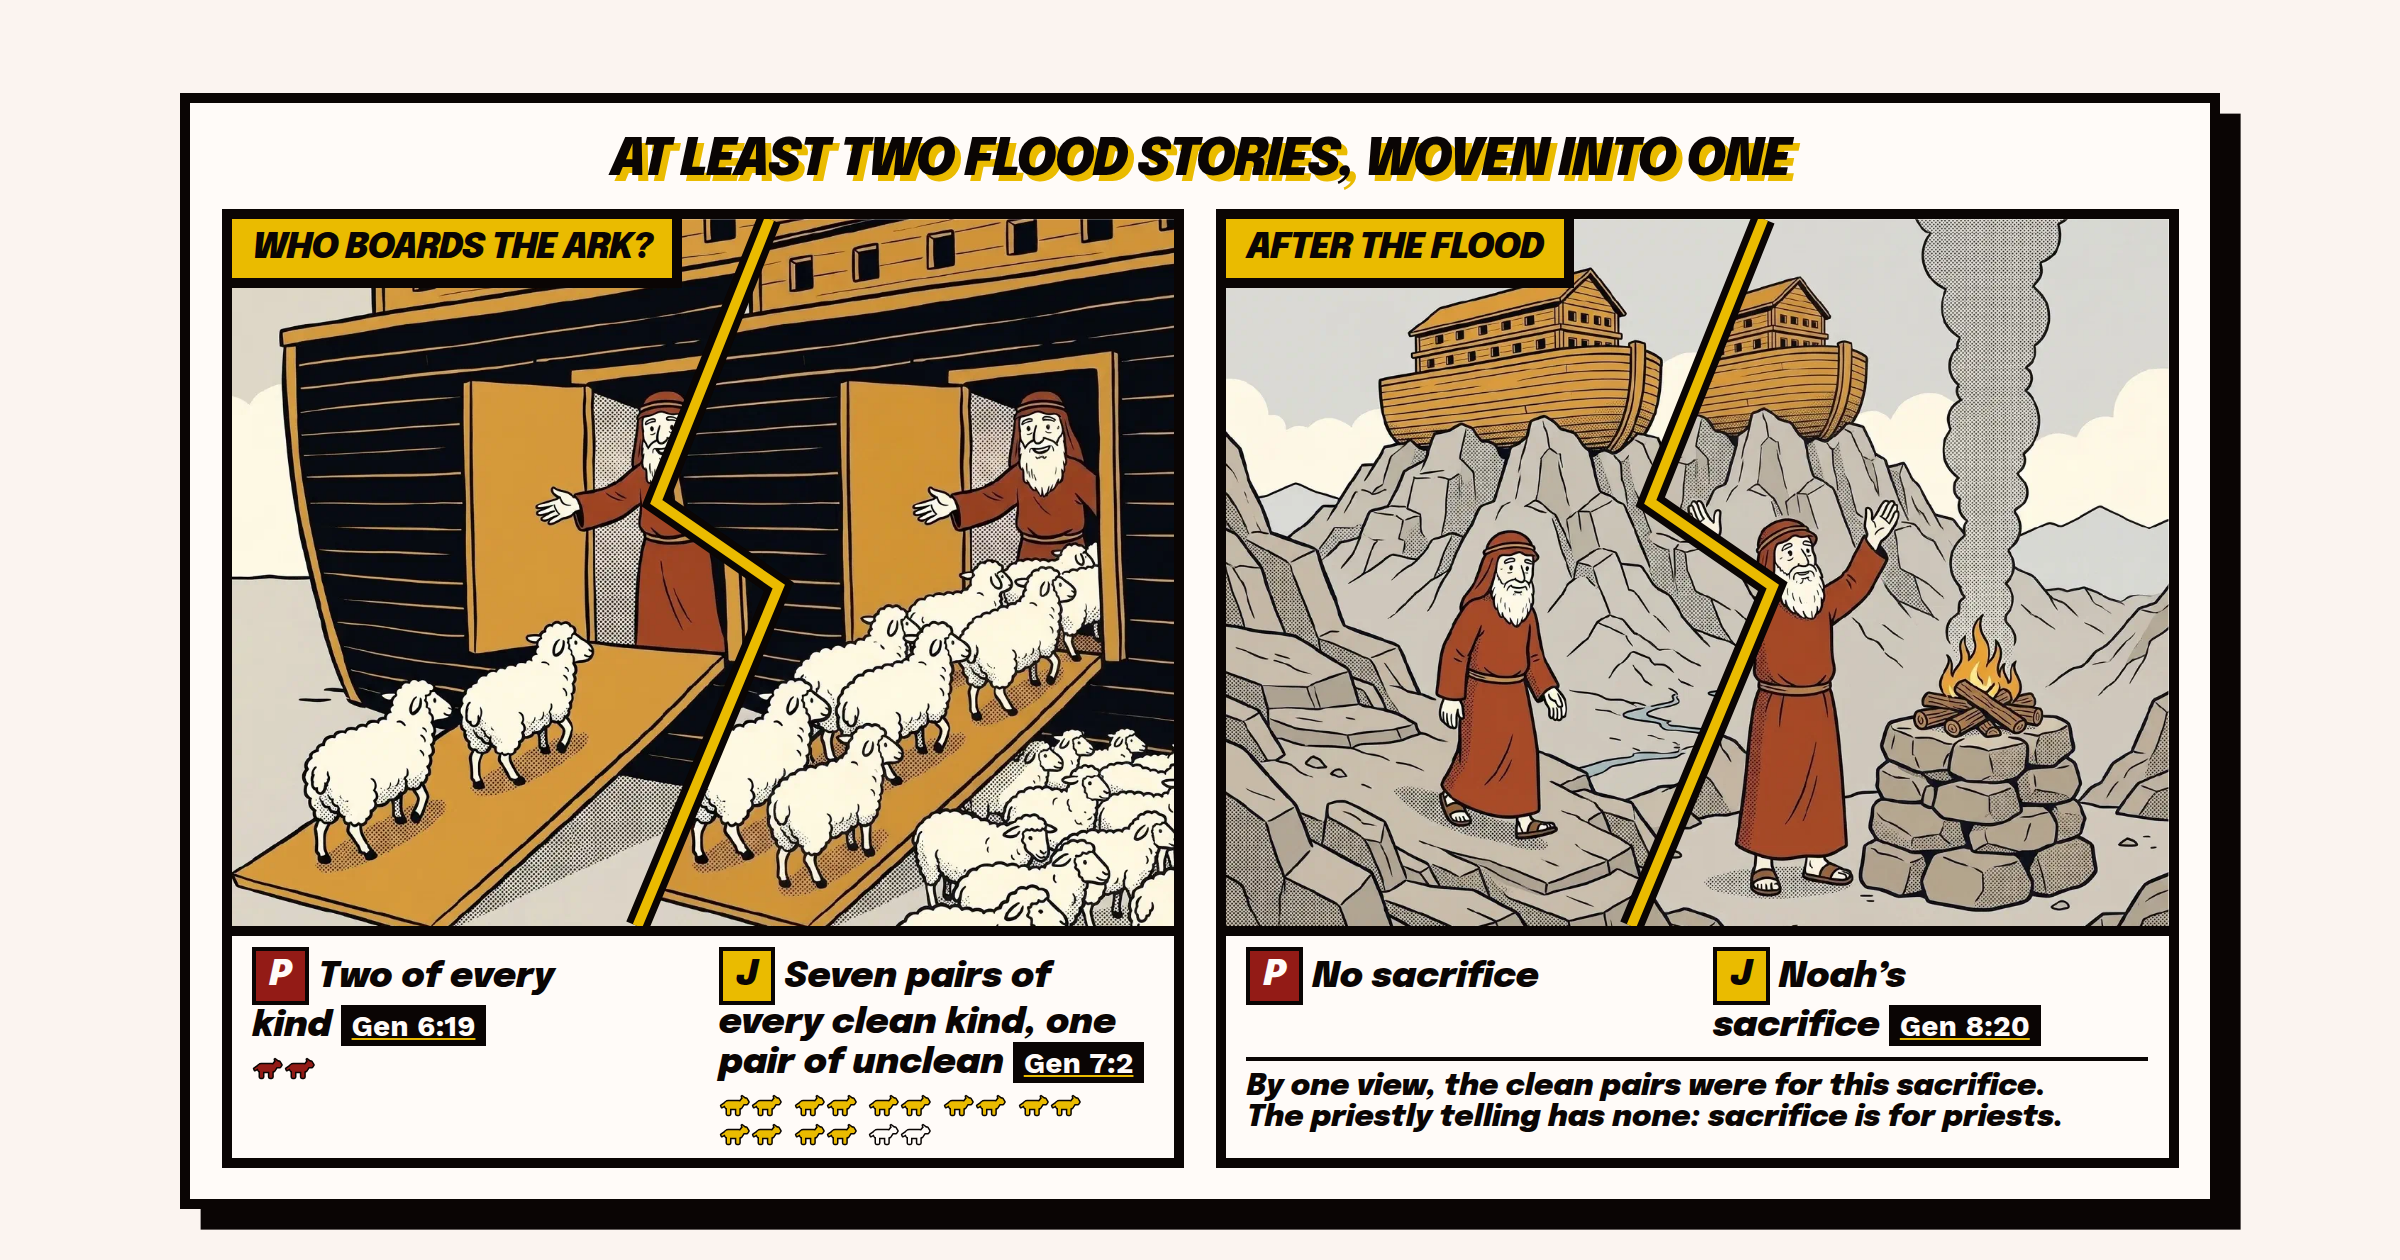
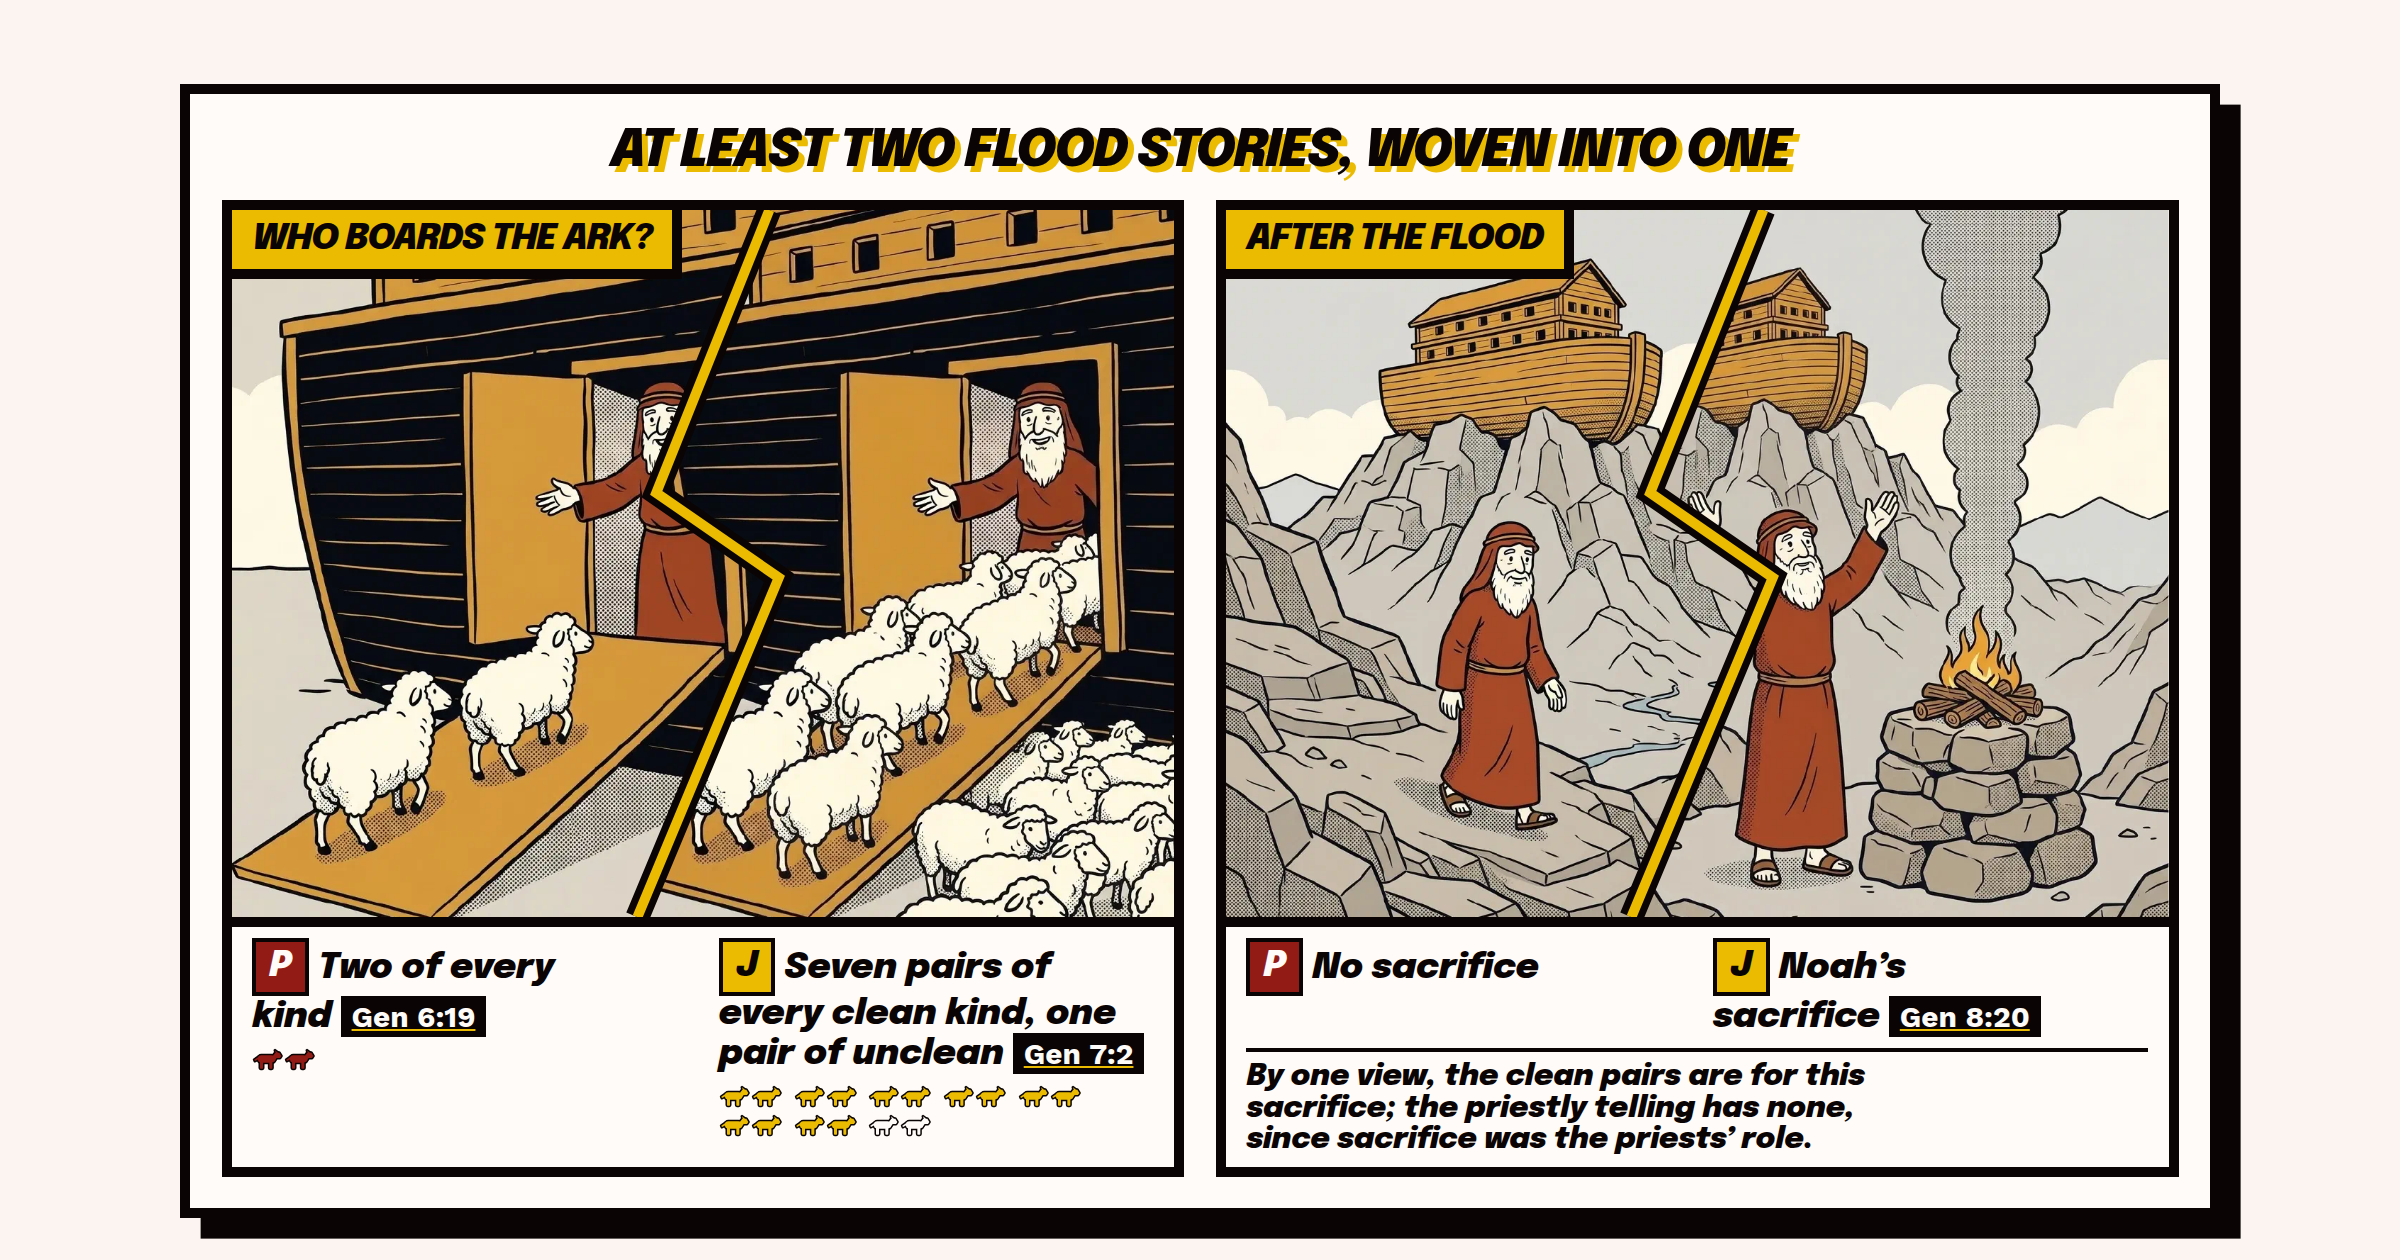
Noah's Ark infographic: neutral gutter for unassigned doublets; restore sacrifice hedge

Changed region(s): [[0.0625, 0.0619, 0.9375, 0.9905], [0.875, 0.2786, 0.9062, 0.3095], [0.5, 0.2786, 0.5312, 0.3095]]

diff --git a/hugo/layouts/partials/scholarship-custom/noahs-ark-and-the-flood.html b/hugo/layouts/partials/scholarship-custom/noahs-ark-and-the-flood.html
@@ -6,10 +6,12 @@
 
   A view of the page's reviewed statement `sources` (text and cites 1, 3, 5,
   7, 9, 10, 11, 13) and, for the mountains in panel 4, `ararat`; it makes no
-  claim they don't. Panels 1 and 4 carry the J and P badges, because the
-  statement ties the seven clean pairs to the telling with Noah's sacrifice
-  and "two of each" to the priestly one. Panels 2 and 3 carry none: the page
-  says these are told twice, not which telling has which.
+  claim they don't. Panels 1 and 4 are split by a lightning bolt and carry
+  the J and P badges, because the statement ties the seven clean pairs to
+  the telling with Noah's sacrifice and "two of each" to the priestly one.
+  Panels 2 and 3 are split by a plain gutter with no badges: the page says
+  these verses disagree, not which telling has which, and the same bolt
+  would assign them by position.
 
   The art is generated with Gemini from
   data/scholarship-illustrations/noahs-ark-and-the-flood.yaml. The P half
@@ -99,6 +101,10 @@
         <span class="noah-comic__badge noah-comic__badge--j">J</span> the other,
         which names God Yahweh
       </p>
+      <p class="noah-comic__legend">
+        <span class="noah-comic__legend-bolt" aria-hidden="true">⚡</span>
+        splits the two tellings; a straight line, two verses that disagree.
+      </p>
     </header>
     <ol class="noah-comic__strip">
       {{- range $panels }}
@@ -106,19 +112,28 @@
           class="noah-comic__frame noah-comic__frame--{{ .id }}"
           {{ if in (slice "flood" "birds") .id }}data-card-hide{{ end }}>
           <figure class="noah-comic__figure">
-            <div class="noah-comic__art">
+            {{- $assigned := in (slice "board" "after") .id }}
+            <div
+              class="noah-comic__art noah-comic__art--{{ cond $assigned "bolt" "gutter" }}">
               {{ partial "inline/noah-half.html" (merge .left (dict "side" "left")) }}
               {{ partial "inline/noah-half.html" (merge .right (dict "side" "right")) }}
-              {{/* The lightning bolt between the two tellings. */}}
-              <svg
-                class="noah-comic__bolt"
-                viewBox="0 0 100 100"
-                preserveAspectRatio="none"
-                aria-hidden="true"
-                focusable="false">
-                <polyline points="57,0 45,40 58,52 43,100" />
-                <polyline points="57,0 45,40 58,52 43,100" />
-              </svg>
+              {{- if $assigned }}
+                {{/* A lightning bolt: the page assigns these halves to the two tellings. */}}
+                <svg
+                  class="noah-comic__bolt"
+                  viewBox="0 0 100 100"
+                  preserveAspectRatio="none"
+                  aria-hidden="true"
+                  focusable="false">
+                  <polyline points="57,0 45,40 58,52 43,100" />
+                  <polyline points="57,0 45,40 58,52 43,100" />
+                </svg>
+              {{- else }}
+                {{/* A plain gutter: two verses that disagree, assigned to neither telling. */}}
+                <span class="noah-comic__gutter" aria-hidden="true">
+                  <span class="noah-comic__vs">≠</span>
+                </span>
+              {{- end }}
             </div>
             <h3 class="noah-comic__box">{{ .box }}</h3>
             <figcaption class="noah-comic__caption">
@@ -234,8 +249,9 @@
                   </div>
                 </div>
                 <p class="noah-comic__note">
-                  By one view, the clean pairs were for this sacrifice. The
-                  priestly telling has none: sacrifice is for priests.
+                  By one view, the clean pairs are for this sacrifice; the
+                  priestly telling has none, since sacrifice was the priests’
+                  role.
                 </p>
               {{- end }}
             </figcaption>

diff --git a/hugo/assets/css/scholarship-custom/noahs-ark-and-the-flood.css b/hugo/assets/css/scholarship-custom/noahs-ark-and-the-flood.css
@@ -72,6 +72,16 @@
   text-wrap: balance;
 }
 
+.noah-comic__legend {
+  font-size: var(--step--2);
+  line-height: var(--line-height-tight);
+}
+
+.noah-comic__legend-bolt {
+  color: var(--noah-amber);
+  -webkit-text-stroke: 1px var(--noah-ink);
+}
+
 .noah-comic__key {
   font-size: var(--step--1);
   font-weight: var(--font-weight-bold);
@@ -138,12 +148,20 @@
   position: absolute;
 }
 
-.noah-comic__half--left {
+.noah-comic__art--bolt > .noah-comic__half--left {
   clip-path: polygon(0 0, 57% 0, 45% 40%, 58% 52%, 43% 100%, 0 100%);
 }
 
-.noah-comic__half--right {
+.noah-comic__art--bolt > .noah-comic__half--right {
   clip-path: polygon(57% 0, 100% 0, 100% 100%, 43% 100%, 58% 52%, 45% 40%);
+}
+
+.noah-comic__art--gutter > .noah-comic__half--left {
+  clip-path: inset(0 50% 0 0);
+}
+
+.noah-comic__art--gutter > .noah-comic__half--right {
+  clip-path: inset(0 0 0 50%);
 }
 
 .noah-comic__half > img {
@@ -179,6 +197,30 @@
   stroke: var(--noah-amber);
   stroke-width: 5px;
   vector-effect: non-scaling-stroke;
+}
+
+/* The neutral split: a straight ink gutter with a ≠ roundel at its centre. */
+.noah-comic__gutter {
+  background: var(--noah-ink);
+  display: grid;
+  inline-size: var(--noah-frame);
+  inset: 0 auto 0 calc(50% - var(--noah-frame) / 2);
+  place-items: center;
+  position: absolute;
+}
+
+.noah-comic__vs {
+  aspect-ratio: 1;
+  background: var(--noah-paper);
+  border: 3px solid var(--noah-ink);
+  border-radius: 50%;
+  display: grid;
+  font-family: var(--font-family-display);
+  font-size: var(--step-1);
+  font-weight: var(--font-weight-boldest);
+  inline-size: 2.2em;
+  line-height: 1;
+  place-items: center;
 }
 
 /* Narration label, flush in the panel's top-left corner. */
@@ -344,6 +386,15 @@
   max-inline-size: none;
 }
 
+/* A little wider than 4:3, so the count bands fit on the canvas. */
+.scholarship-share:target .noah-comic__art {
+  aspect-ratio: 3 / 2;
+}
+
+.scholarship-share:target .noah-comic__head {
+  gap: 0;
+}
+
 .scholarship-share:target .noah-comic__caption {
   padding: var(--space-3xs) var(--space-2xs);
 }
@@ -364,7 +415,7 @@
 }
 
 .scholarship-share:has(#share-card:target)
-  :is(.noah-comic__kicker, .noah-comic__key) {
+  :is(.noah-comic__kicker, .noah-comic__key, .noah-comic__legend) {
   display: none;
 }
 
